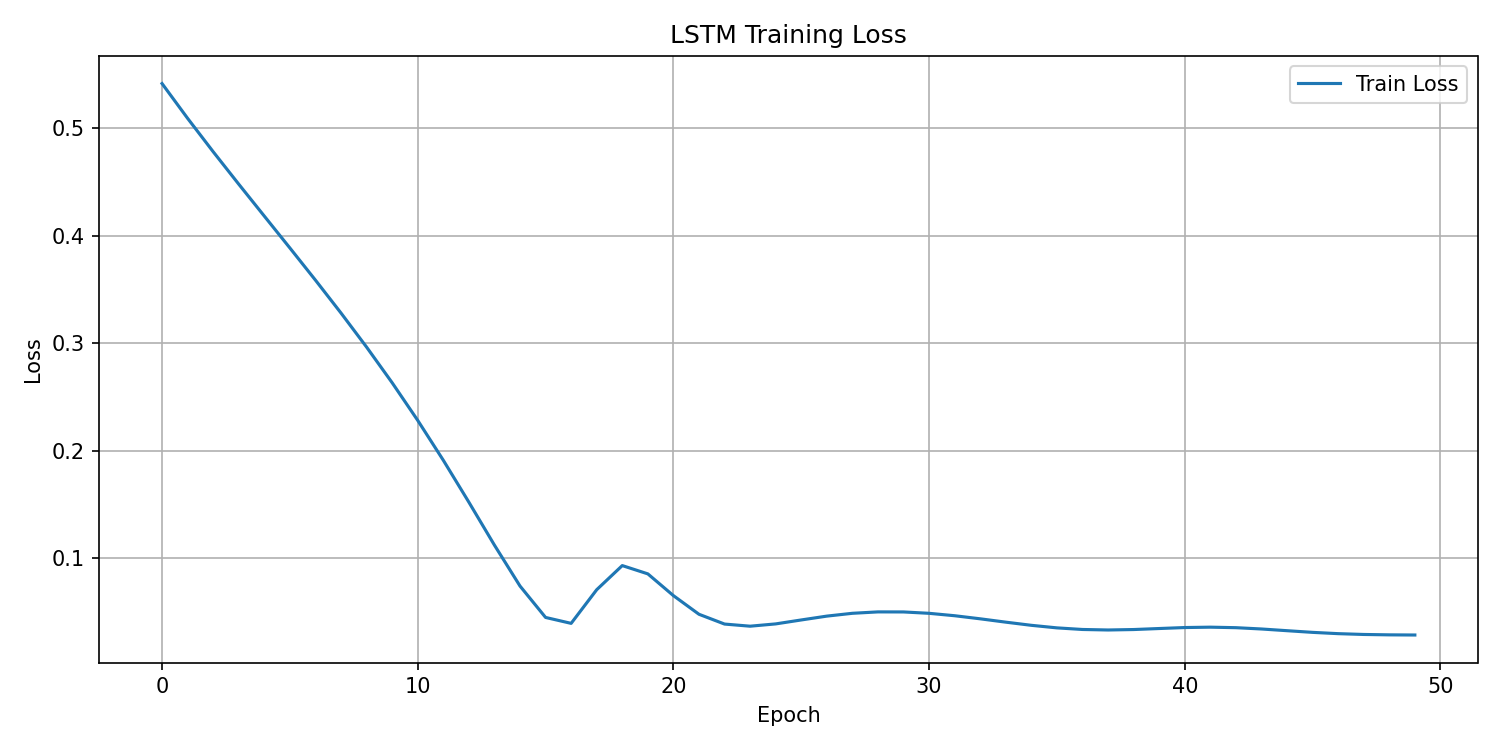
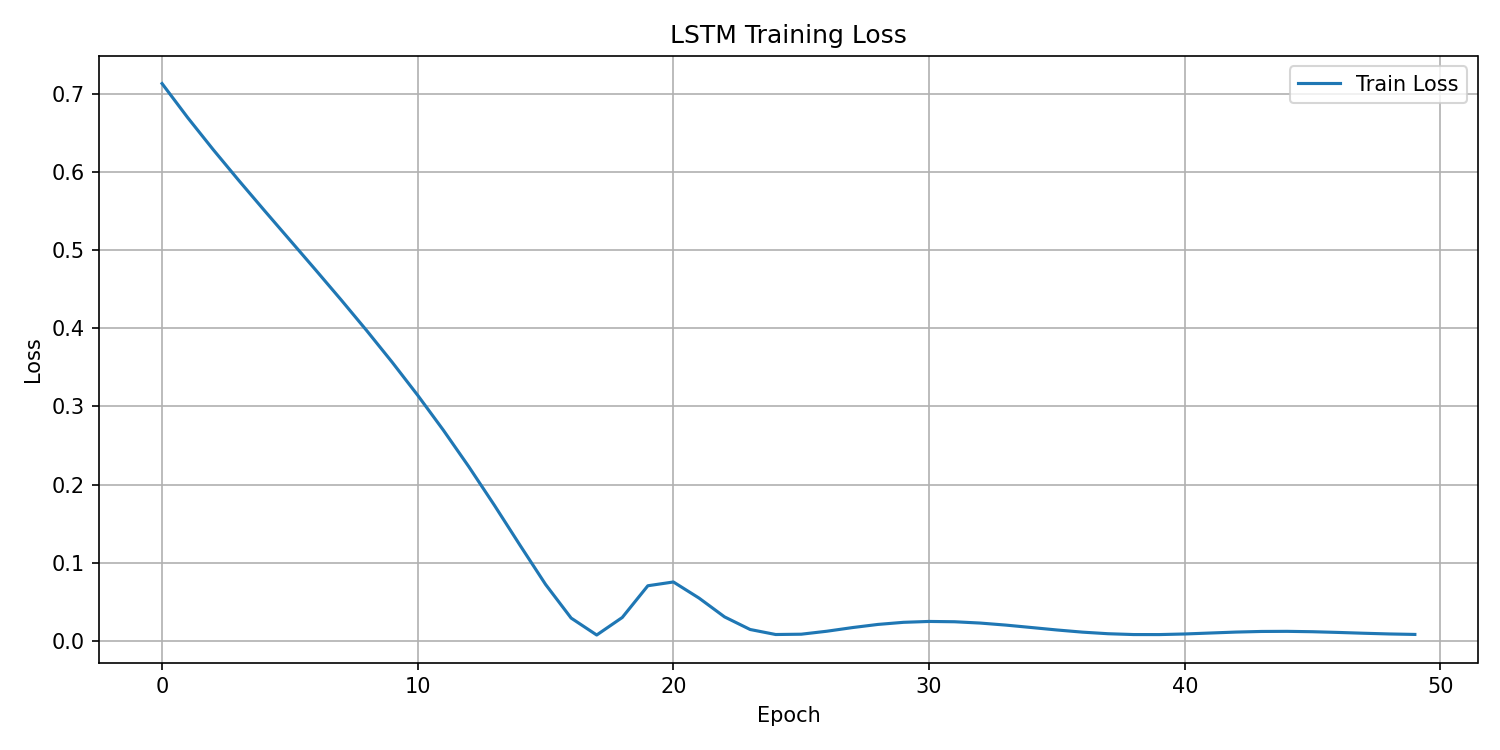
[feat] LSTM 성능 강화 시작

diff --git a/scripts/config_lstm.py b/scripts/config_lstm.py
@@ -1,12 +1,12 @@
 # LSTM 모델 학습용 설정값 (한 곳에서 관리)
 
-SEQ_LEN = 60
-HIDDEN_SIZE = 64
-NUM_LAYERS = 2
-LR = 0.001
-EPOCHS = 50
-COUNT = 300  # fetch_upbit_data 개수
-INPUT_SIZE = 1
-OUTPUT_SIZE = 1
+SEQ_LEN = 60        # 시퀀스 길이
+HIDDEN_SIZE = 32    # LSTM 은닉층 크기
+NUM_LAYERS = 2      # LSTM 층 수
+LR = 0.001          # 학습률
+EPOCHS = 50         # 학습 에폭 수
+COUNT = 300         # fetch_upbit_data 개수
+INPUT_SIZE = 1      # 입력 크기 (종가 1개)
+OUTPUT_SIZE = 1     # 출력 크기 (종가 1개)
 MODEL_PATH = "model_lstm.pt"
 SCALER_PATH = "scaler_lstm.pkl"

diff --git a/scripts/train_lstm.py b/scripts/train_lstm.py
@@ -1,3 +1,4 @@
+# train_lstm.py
 import torch
 import numpy as np
 import pandas as pd
